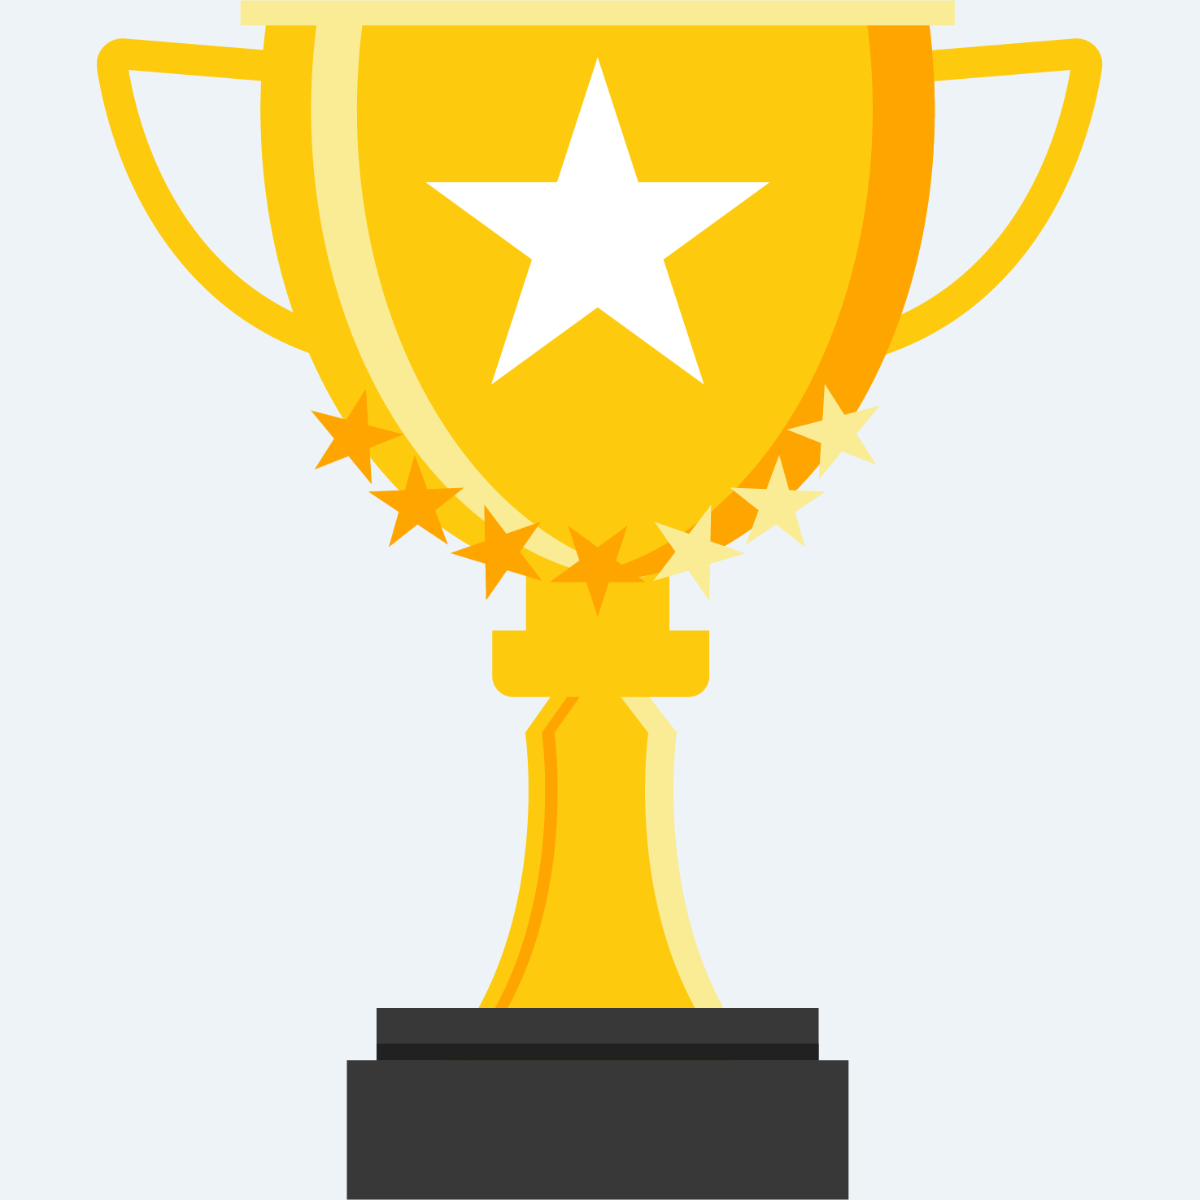
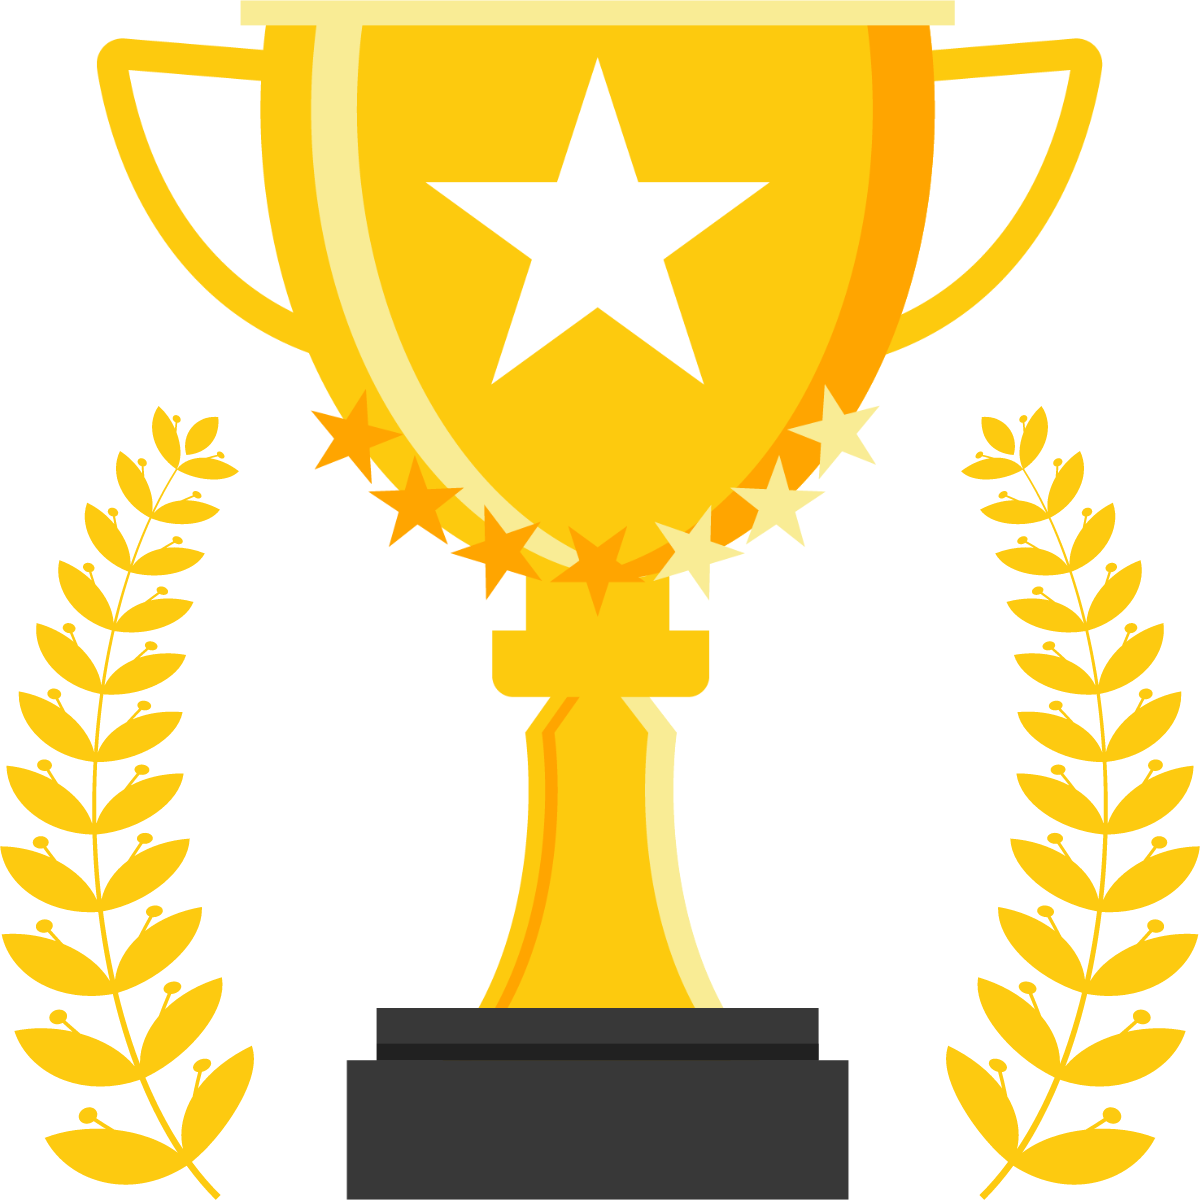
Update Ui resultpage

Changed region(s): [[0.7708, 0.3392, 1.0, 0.9867], [0.0, 0.3392, 0.2158, 1.0], [0.8017, 0.9867, 0.8325, 1.0]]

diff --git a/term_project_quizapp/lib/Page/questionspage.dart b/term_project_quizapp/lib/Page/questionspage.dart
@@ -1,5 +1,6 @@
 import 'package:flutter/material.dart';
 import 'package:term_project_quizapp/Model/model.dart';
+import 'package:google_fonts/google_fonts.dart';
 
 class qpage extends StatefulWidget {
   int? suit;
@@ -273,65 +274,93 @@ class ResultPage extends StatelessWidget {
   Widget build(BuildContext context) {
     return Scaffold(
       backgroundColor: Color(0xffedf3f6),
-      body: Column(
-        mainAxisAlignment: MainAxisAlignment.spaceEvenly,
-        children: [
-          const SizedBox(
-            width: 1000,
-          ),
-          Text('Congratulations',
-              style: TextStyle(fontSize: 20, fontWeight: FontWeight.bold)),
-          const SizedBox(
-            height: 20,
-          ),
-          Image.asset(
-            'assets/images/award.png',
-            scale: 10,
-          ),
-          const Text(
-            'Your Score',
-            style: TextStyle(fontSize: 34, fontWeight: FontWeight.bold),
-          ),
-          // Text('you got $score/${food.length}'),
-          Stack(
-            alignment: Alignment.center,
-            children: [
-              SizedBox(
-                height: 250,
-                width: 250,
-                child: CircularProgressIndicator(
-                  strokeWidth: 10,
-                  value: score / 9,
-                  color: Colors.red,
-                  backgroundColor: Colors.black,
+      body: Padding(
+        padding: const EdgeInsets.all(20),
+        child: Container(
+          alignment: Alignment.center,
+          width: MediaQuery.of(context).size.width,
+          decoration: BoxDecoration(
+              color: Colors.white,
+              borderRadius: BorderRadius.circular(30),
+              boxShadow: const [
+                BoxShadow(
+                  color: Colors.black12,
+                  blurRadius: 7,
                 ),
+              ]),
+          child: Column(
+            mainAxisAlignment: MainAxisAlignment.spaceEvenly,
+            children: [
+              const SizedBox(
+                width: 1000,
               ),
-              Column(
+              Text('Congratulations',
+                  style: GoogleFonts.lato(
+                      color: Colors.black,
+                      fontSize: 35,
+                      fontWeight: FontWeight.bold)),
+              Row(
                 children: [
-                  Text(
-                    score.toString(),
-                    style: const TextStyle(fontSize: 80),
+                  Image.asset(
+                    'assets/images/Star.png',
+                    scale: 13,
                   ),
-                  const SizedBox(
-                    height: 10,
+                  Image.asset(
+                    'assets/images/award.png',
+                    scale: 8,
                   ),
-                  Text(
-                    '${(score / food.length * 100).round()}%',
-                    style: const TextStyle(fontSize: 25),
+                  Image.asset(
+                    'assets/images/Star.png',
+                    scale: 13,
+                  ),
+                ],
+              ),
+              const Text(
+                'Your Score',
+                style: TextStyle(fontSize: 34, fontWeight: FontWeight.bold),
+              ),
+              // Text('you got $score/${food.length}'),
+              Stack(
+                alignment: Alignment.center,
+                children: [
+                  SizedBox(
+                    height: 250,
+                    width: 250,
+                    child: CircularProgressIndicator(
+                      strokeWidth: 10,
+                      value: score / 9,
+                      color: Colors.red,
+                      backgroundColor: Colors.black,
+                    ),
+                  ),
+                  Column(
+                    children: [
+                      Text(
+                        score.toString(),
+                        style: const TextStyle(fontSize: 80),
+                      ),
+                      const SizedBox(
+                        height: 10,
+                      ),
+                      Text(
+                        '${(score / food.length * 100).round()}%',
+                        style: const TextStyle(fontSize: 25),
+                      )
+                    ],
                   )
                 ],
-              )
+              ),
+              ElevatedButton(
+                  onPressed: () async {
+                    await Navigator.pushNamed(
+                      context,
+                      '/',
+                    );
+                  },
+                  child: Text('Home'))
             ],
           ),
-          ElevatedButton(
-              onPressed: () async {
-                await Navigator.pushNamed(
-                  context,
-                  '/',
-                );
-              },
-              child: Text('Home'))
-        ],
+        ),
       ),
     );
   }
